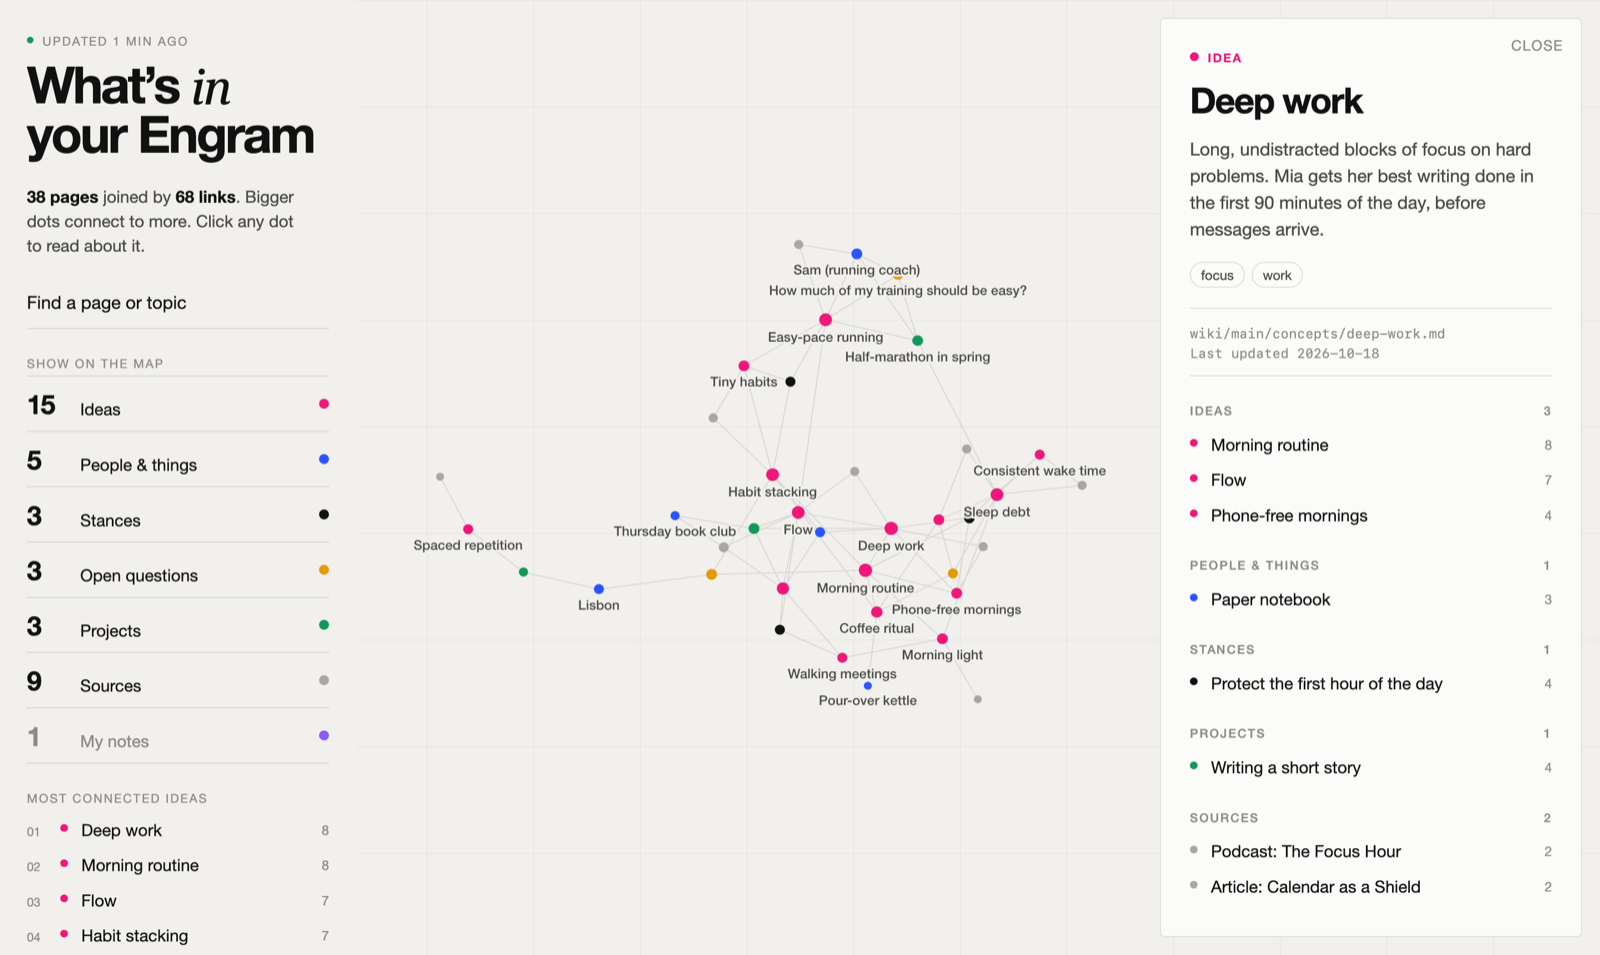
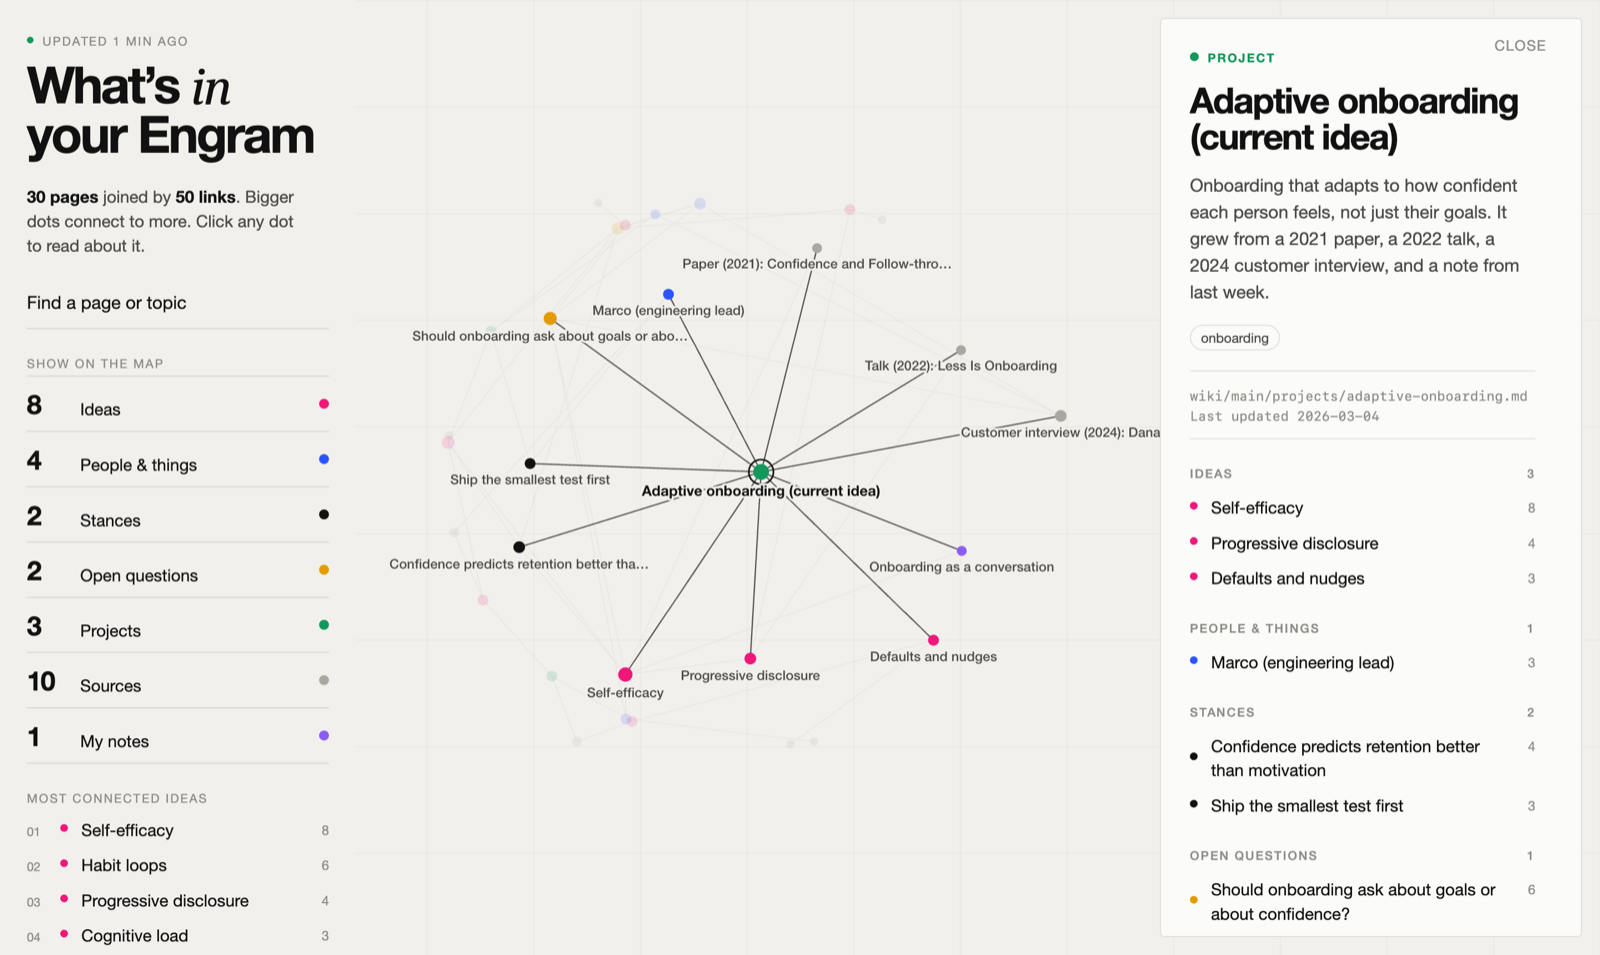
Update Engram public structure

diff --git a/README.md b/README.md
@@ -1,45 +1,50 @@
 # Engram
 
-**A memory for you and your AI.** Save what you read, watch, hear, and think. Your AI files it, connects it to what you already know, and remembers it, so every conversation starts from your own knowledge instead of from zero.
+**Your mind, 10x. An AI memory that connects everything you have ever learned to what you are thinking about now.**
+
+If your job runs on knowledge, you read, meet, and think far more than one head can hold. The paper you read three years ago may be exactly what today's idea needs, but you will not remember it. Engram remembers it for you and makes the connection.
 
 ![Engram as a memory upgrade for a human working with AI](assets/engram-overview.png)
 
-## See what's in your head
+## Old knowledge, new ideas
 
-![The Engram Graph: a map of one person's ideas, people, stances, questions, projects, and sources](assets/engram-graph-demo.png)
+![Engram Graph: a current idea connected to a 2021 paper, a 2022 talk, a 2024 customer interview, and a note from last week](assets/engram-graph-demo.png)
 
-*Sample Engram for Mia, who is training for a half-marathon, sleeping better, and writing a short story. Every dot is a page your AI wrote for you. Lines are connections it found. Click a dot to read it.*
+*A sample Engram. Priya, a product lead, is shaping a new idea: onboarding that adapts to how confident people feel. Engram connected it to a paper she saved in 2021, a conference talk from 2022, a customer interview from 2024, and a note she wrote last week. She had long forgotten most of them.*
 
-Each colour is a kind of page:
-
-| | Kind | What it holds | Example from Mia's Engram |
-| --- | --- | --- | --- |
-| 🔴 | **Ideas** | Concepts you keep running into | *Deep work*, *Sleep debt*, *Habit stacking* |
-| 🔵 | **People & things** | People, places, tools, groups | *Sam (running coach)*, *Lisbon*, *Paper notebook* |
-| ⚫ | **Stances** | What you believe, in your words | *Protect the first hour of the day* |
-| 🟠 | **Open questions** | Things you are still figuring out | *Does coffee after 2pm hurt my sleep?* |
-| 🟢 | **Projects** | What you are working toward | *Half-marathon in spring* |
-| ⚪ | **Sources** | Articles, podcasts, books, videos, files you saved | *Podcast: Why We Nap* |
-| 🟣 | **My notes** | Your own writing, kept exactly as you wrote it | *Lisbon trip reflections* |
+Every dot is a page your AI wrote and keeps up to date. Every line is a connection it found. Click any dot to see everything that feeds into it.
 
 ## How it works
 
-1. **Save something.** Give your AI a link, a PDF, a meeting transcript, or a thought: *"Digest this article."*
-2. **Your AI files it.** It keeps the original, writes a short page about it, and links it to the ideas, people, and projects already in your Engram. It asks what *you* think and records your take only after you agree.
-3. **Ask, and see.** Ask questions and get answers from your own saved knowledge, with links back to where each answer came from. Open **Engram Graph** to see everything at a glance.
+1. **Capture as you go.** Papers, articles, talks, meetings, customer interviews, your own notes. One sentence is enough: *"Digest this."* Your AI keeps the original and writes a short page about it.
+2. **Engram connects it to everything you already have.** Each new thing is linked to the ideas, people, open questions, and projects already in your Engram, no matter how long ago you saved them.
+3. **Your past shows up when you need it.** Working on something new? Ask *"What do I already know that relates to this?"* Your AI answers from your own Engram and shows where each piece came from: the 2021 paper, the customer quote, last week's note.
+4. **See your thinking.** Open **Engram Graph** to see how it all connects, and which ideas keep coming back.
 
-Over time your Engram compounds: every new source makes the old ones more useful.
+The more you add, the more it can connect. Every new source makes your old ones more useful.
+
+## What Engram keeps
+
+| | Kind | What it holds | In Priya's Engram |
+| --- | --- | --- | --- |
+| 🔴 | **Ideas** | Concepts you keep running into | *Self-efficacy*, *Progressive disclosure*, *Habit loops* |
+| 🔵 | **People & things** | Colleagues, customers, companies, tools | *Dana (customer)*, *Marco (engineering lead)* |
+| ⚫ | **Stances** | What you believe, in your words | *Confidence predicts retention better than motivation* |
+| 🟠 | **Open questions** | Things you are still figuring out | *Why do new users drop off on day 3?* |
+| 🟢 | **Projects** | What you are working toward | *Adaptive onboarding*, *Q1 retention push* |
+| ⚪ | **Sources** | Papers, talks, interviews, meeting notes, articles | *Paper (2021): Confidence and Follow-through* |
+| 🟣 | **My notes** | Your own writing, kept exactly as you wrote it | *Onboarding as a conversation* |
 
 ## Things you can say
 
 | You say | Engram does |
 | --- | --- |
-| "Digest this podcast transcript." | Saves the original, writes a source page, links it, then asks what stood out to you |
+| "What do I already know that relates to this idea?" | Pulls together your past sources, ideas, and notes on it, and says where each came from |
+| "Digest this paper." | Saves the original, writes a page, links it to what you already have, then asks what stood out to you |
 | "File this as a note: …" | Saves your words as a note, untouched |
-| "What do I know about sleep?" | Answers from your pages, and says which ones |
+| "What have I read about onboarding?" | Answers from your own pages, with links |
 | "What changed this week?" | Writes a short weekly recap |
 | "Check my Engram for loose ends." | Finds stale pages, missing links, and contradictions |
-| "Turn this into a one-page visual." | Builds a shareable page from a finished document |
 
 ## Get started
 
